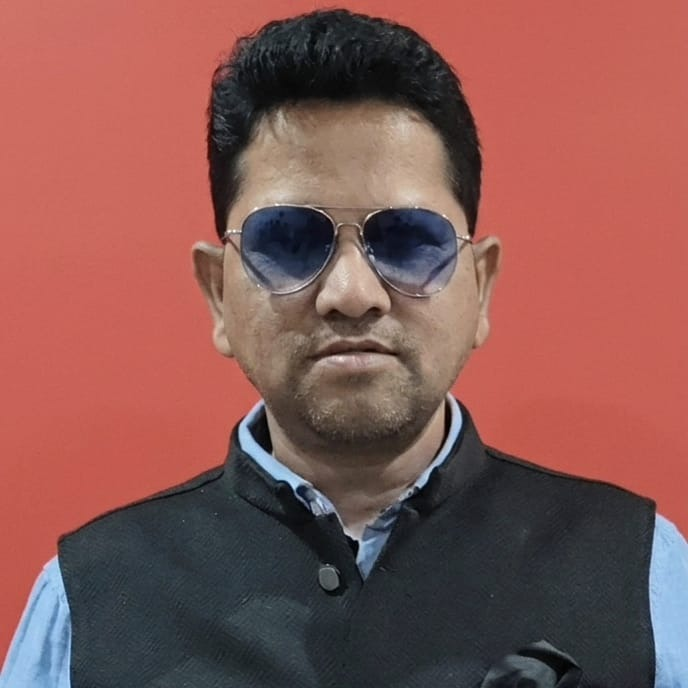
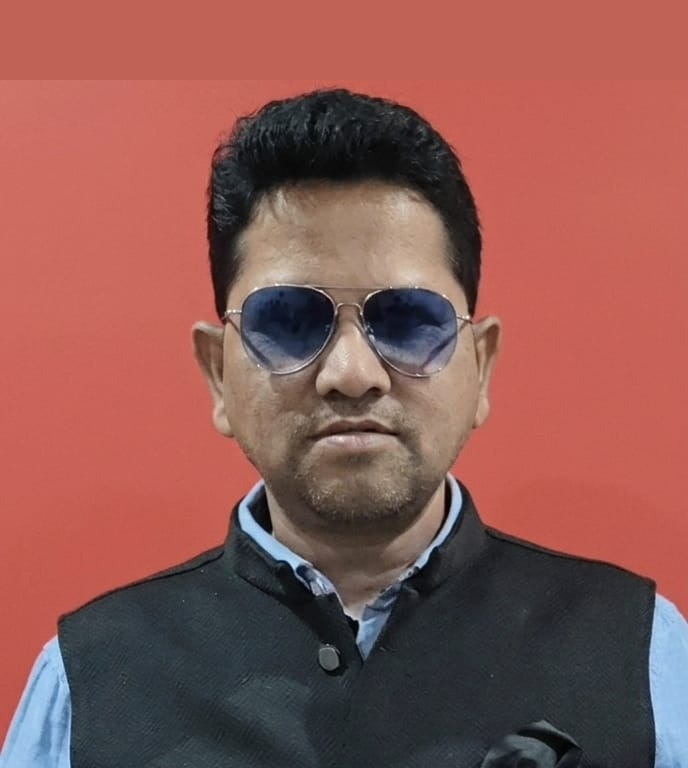
staff details updated

diff --git a/staff.html b/staff.html
@@ -72,22 +72,173 @@
     </div>
   </section>
 
-  <!-- Coming Soon Section -->
+  <!-- Faculty & Staff Section -->
   <section class="section">
     <div class="container">
-      <div class="coming-soon-box">
-        <div class="coming-soon-icon">
-          <i class="fa-solid fa-user-clock"></i>
-        </div>
-        <span class="section-tag">Updates in Progress</span>
-        <h2 style="font-size: 2rem; color: var(--dark); margin: 0.75rem 0 0.5rem;">Staff Details Coming Soon</h2>
-        <p style="color: var(--text-muted); font-size: 1.05rem; max-width: 480px; margin: 0 auto 2rem; line-height: 1.6;">
-          Faculty and staff member information is currently being updated. Please check back soon.
+      
+      <!-- Section Header -->
+      <div style="text-align: center; max-width: 680px; margin: 0 auto 3rem;">
+        <span class="section-tag" style="margin-bottom: 0.5rem; display: inline-flex;">Our Educators</span>
+        <h2 style="font-size: 2rem; color: var(--dark); margin-bottom: 0.75rem;">Dedicated Faculty & Staff</h2>
+        <p style="color: var(--text-muted); font-size: 1.05rem; line-height: 1.6;">
+          Meet the experienced and caring educators fostering curiosity, learning, and character building at Karlajori-Antapali Govt. U.P. School.
         </p>
-        <a href="index.html" class="btn btn-primary">
-          <i class="fa-solid fa-arrow-left"></i> Back to Home
+      </div>
+
+      <!-- Staff Grid -->
+      <div class="grid-4">
+
+        <!-- Staff 1: Headmaster Sunil Khamari -->
+        <div class="staff-card">
+          <div class="staff-image-wrap">
+            <img src="images/hm.jpg" alt="Sunil Khamari - Headmaster">
+            <span class="staff-badge-role"><i class="fa-solid fa-award"></i> Headmaster</span>
+          </div>
+          <div class="staff-content">
+            <h3 class="staff-name">Sunil Khamari</h3>
+            <p class="staff-designation">Headmaster</p>
+            <div class="staff-qual">
+              <i class="fa-solid fa-graduation-cap" style="color: var(--primary);"></i>
+              <span>Institutional Leadership & Administration</span>
+            </div>
+            <p class="staff-bio">
+              Committed to holistic education, inspiring students towards academic excellence and strong moral values.
+            </p>
+          </div>
+        </div>
+
+        <!-- Staff 2: Kanti Sahu -->
+        <div class="staff-card">
+          <div class="staff-image-wrap">
+            <img src="images/kanti-sahu.jpg" alt="Kanti Sahu - Teacher">
+            <span class="staff-badge-role"><i class="fa-solid fa-chalkboard-user"></i> Teacher</span>
+          </div>
+          <div class="staff-content">
+            <h3 class="staff-name">Kanti Sahu</h3>
+            <p class="staff-designation">Teacher</p>
+            <div class="staff-qual">
+              <i class="fa-solid fa-graduation-cap" style="color: var(--primary);"></i>
+              <span>Teaching Faculty</span>
+            </div>
+            <p class="staff-bio">
+              Dedicated to nurturing young minds with patient instruction, conceptual clarity, and foundational learning.
+            </p>
+          </div>
+        </div>
+
+        <!-- Staff 3: Kalyani Mirdha -->
+        <div class="staff-card">
+          <div class="staff-image-wrap">
+            <img src="images/kalyani-mirdha.jpg" alt="Kalyani Mirdha - Teacher">
+            <span class="staff-badge-role"><i class="fa-solid fa-chalkboard-user"></i> Teacher</span>
+          </div>
+          <div class="staff-content">
+            <h3 class="staff-name">Kalyani Mirdha</h3>
+            <p class="staff-designation">Teacher</p>
+            <div class="staff-qual">
+              <i class="fa-solid fa-graduation-cap" style="color: var(--primary);"></i>
+              <span>Teaching Faculty</span>
+            </div>
+            <p class="staff-bio">
+              Passionate educator fostering creative engagement, literacy, and student development in the classroom.
+            </p>
+          </div>
+        </div>
+
+        <!-- Staff 4: Bulu Gartia -->
+        <div class="staff-card">
+          <div class="staff-image-wrap">
+            <img src="images/bulu-gartia.jpg" alt="Bulu Gartia - Teacher">
+            <span class="staff-badge-role"><i class="fa-solid fa-chalkboard-user"></i> Teacher</span>
+          </div>
+          <div class="staff-content">
+            <h3 class="staff-name">Bulu Gartia</h3>
+            <p class="staff-designation">Teacher</p>
+            <div class="staff-qual">
+              <i class="fa-solid fa-graduation-cap" style="color: var(--primary);"></i>
+              <span>Teaching Faculty</span>
+            </div>
+            <p class="staff-bio">
+              Guiding students with active teaching methods, discipline, and participation in co-curricular activities.
+            </p>
+          </div>
+        </div>
+
+        <!-- Staff 5: Neelima Paik -->
+        <div class="staff-card">
+          <div class="staff-image-wrap">
+            <img src="images/neelima-paik.jpg" alt="Neelima Paik - Teacher">
+            <span class="staff-badge-role"><i class="fa-solid fa-chalkboard-user"></i> Teacher</span>
+          </div>
+          <div class="staff-content">
+            <h3 class="staff-name">Neelima Paik</h3>
+            <p class="staff-designation">Teacher</p>
+            <div class="staff-qual">
+              <i class="fa-solid fa-graduation-cap" style="color: var(--primary);"></i>
+              <span>Teaching Faculty</span>
+            </div>
+            <p class="staff-bio">
+              Dedicated to fostering interactive learning, student growth, and supportive classroom mentorship.
+            </p>
+          </div>
+        </div>
+
+        <!-- Staff 6: Sagnika Naik -->
+        <div class="staff-card">
+          <div class="staff-image-wrap">
+            <img src="images/sagnika-naik.jpg" alt="Sagnika Naik - Teacher">
+            <span class="staff-badge-role"><i class="fa-solid fa-chalkboard-user"></i> Teacher</span>
+          </div>
+          <div class="staff-content">
+            <h3 class="staff-name">Sagnika Naik</h3>
+            <p class="staff-designation">Teacher</p>
+            <div class="staff-qual">
+              <i class="fa-solid fa-graduation-cap" style="color: var(--primary);"></i>
+              <span>Teaching Faculty</span>
+            </div>
+            <p class="staff-bio">
+              Inspiring young learners through engaging foundational teaching, creative activities, and active student encouragement.
+            </p>
+          </div>
+        </div>
+
+        <!-- Staff 7: Tapaswini Pradhan -->
+        <div class="staff-card">
+          <div class="staff-image-wrap">
+            <img src="images/tapaswini-pradhan.jpg" alt="Tapaswini Pradhan - Teacher">
+            <span class="staff-badge-role"><i class="fa-solid fa-chalkboard-user"></i> Teacher</span>
+          </div>
+          <div class="staff-content">
+            <h3 class="staff-name">Tapaswini Pradhan</h3>
+            <p class="staff-designation">Teacher</p>
+            <div class="staff-qual">
+              <i class="fa-solid fa-graduation-cap" style="color: var(--primary);"></i>
+              <span>Teaching Faculty</span>
+            </div>
+            <p class="staff-bio">
+              Committed to delivering quality education, nurturing curiosity, and instilling positive learning values in children.
+            </p>
+          </div>
+        </div>
+
+      </div>
+
+      <!-- Additional Info Banner -->
+      <div style="margin-top: 3.5rem; background: #f8fafc; border: 1px solid var(--border-light); border-radius: var(--radius-md); padding: 1.75rem 2rem; display: flex; align-items: center; justify-content: space-between; flex-wrap: wrap; gap: 1.25rem;">
+        <div style="display: flex; align-items: center; gap: 1rem;">
+          <div style="width: 48px; height: 48px; border-radius: 50%; background: #e0f2fe; color: var(--primary); display: flex; align-items: center; justify-content: center; font-size: 1.25rem;">
+            <i class="fa-solid fa-school-circle-check"></i>
+          </div>
+          <div>
+            <h4 style="margin: 0; font-size: 1.1rem; color: var(--dark);">Karlajori-Antapali Govt. U.P. School Faculty</h4>
+            <p style="margin: 0; font-size: 0.88rem; color: var(--text-muted);">Serving students across primary and upper primary grades with dedication since 1946.</p>
+          </div>
+        </div>
+        <a href="contact.html" class="btn btn-primary" style="padding: 0.55rem 1.25rem; font-size: 0.9rem;">
+          <i class="fa-solid fa-phone"></i> Contact School
         </a>
       </div>
+
     </div>
   </section>
 

diff --git a/css/style.css b/css/style.css
@@ -606,8 +606,8 @@ img {
 
 .staff-image-wrap {
   position: relative;
-  background: #e2e8f0;
-  height: 250px;
+  background: #f1f5f9;
+  height: 285px;
   display: flex;
   align-items: center;
   justify-content: center;
@@ -618,11 +618,13 @@ img {
   width: 100%;
   height: 100%;
   object-fit: cover;
+  object-position: top center;
+  transform-origin: top center;
   transition: transform 0.4s ease;
 }
 
 .staff-card:hover .staff-image-wrap img {
-  transform: scale(1.05);
+  transform: scale(1.02);
 }
 
 .staff-placeholder-avatar {
@@ -666,7 +668,7 @@ img {
 .staff-qual {
   font-size: 0.82rem;
   color: var(--text-muted);
-  margin-bottom: 1rem;
+  margin-bottom: 0.75rem;
   display: flex;
   align-items: center;
   gap: 0.4rem;
@@ -675,8 +677,9 @@ img {
 .staff-bio {
   font-size: 0.88rem;
   color: var(--text-main);
-  margin-bottom: 1.25rem;
+  margin-bottom: 0;
   flex-grow: 1;
+  line-height: 1.55;
 }
 
 .staff-footer {
